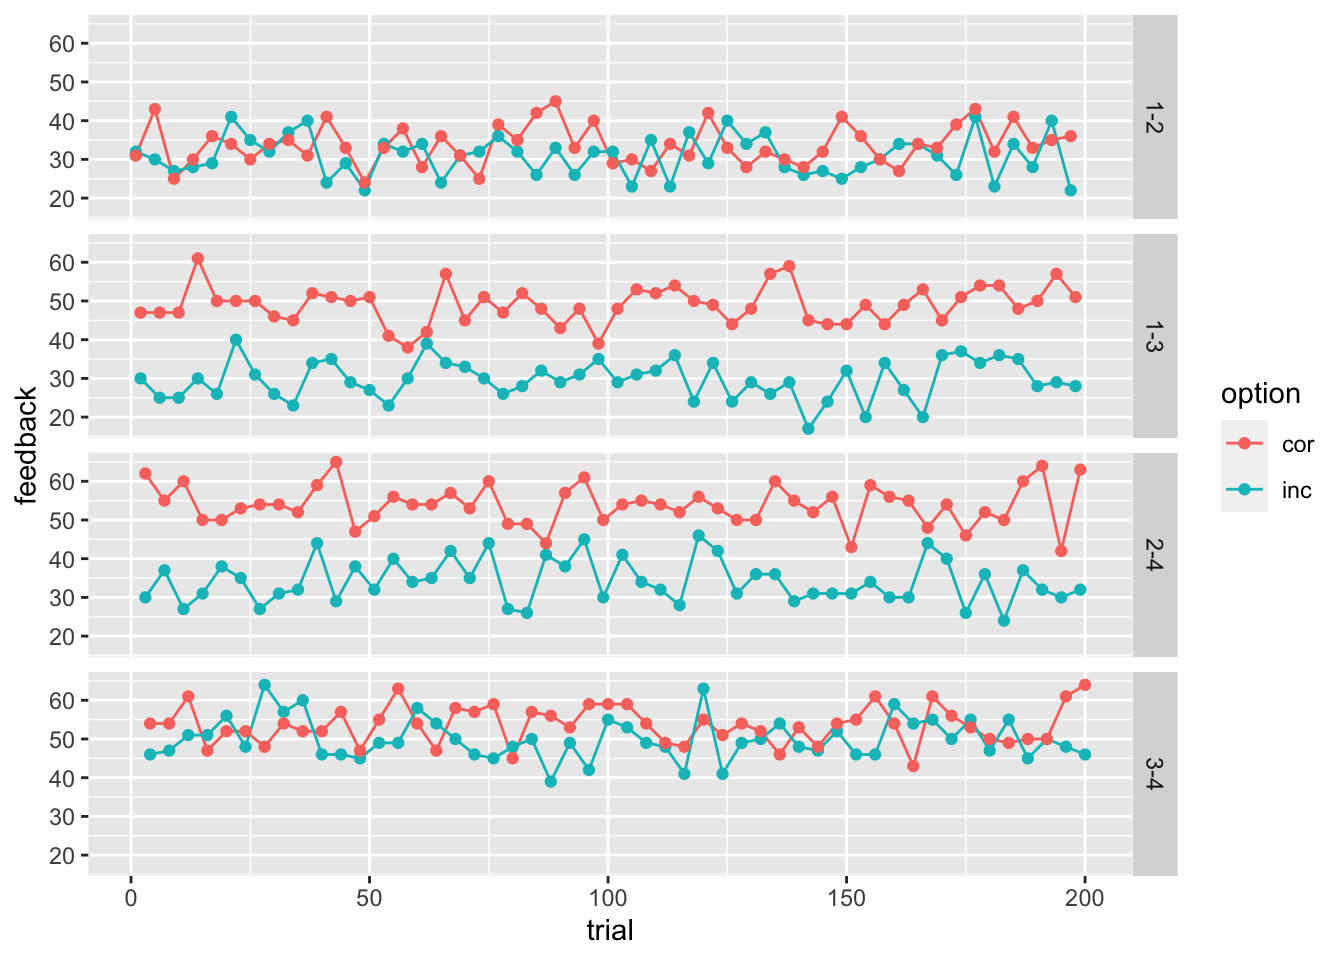
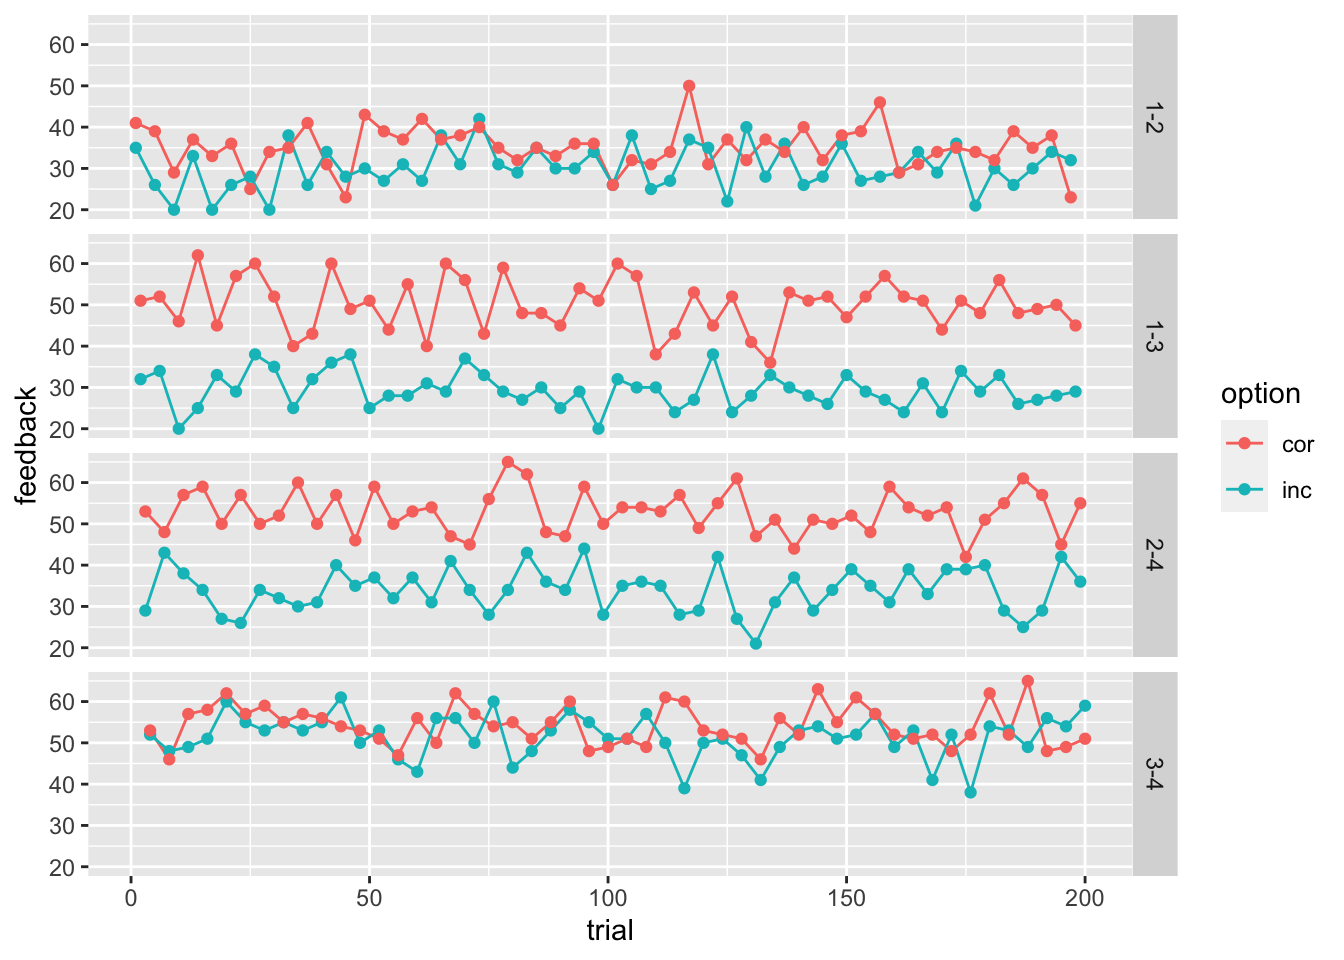
added posterior predictives

Changed region(s): [[0.0312, 0.0312, 0.8438, 0.4688], [0.0312, 0.4688, 0.8438, 0.9062]]

diff --git a/docs/RLDM.html b/docs/RLDM.html
@@ -358,12 +358,12 @@ library(bayesplot)</code></pre>
 ## 4       4   54  5</code></pre>
 <pre class="r"><code>head(stimuli)</code></pre>
 <pre><code>##   trial trial_type inc_option cor_option f_inc f_cor
-## 1     1        1-2          1          2    32    31
-## 2     2        1-3          1          3    30    47
-## 3     3        2-4          2          4    30    62
-## 4     4        3-4          3          4    46    54
-## 5     5        1-2          1          2    30    43
-## 6     6        1-3          1          3    25    47</code></pre>
+## 1     1        1-2          1          2    35    41
+## 2     2        1-3          1          3    32    51
+## 3     3        2-4          2          4    29    53
+## 4     4        3-4          3          4    52    53
+## 5     5        1-2          1          2    26    39
+## 6     6        1-3          1          3    34    52</code></pre>
 <pre class="r"><code>stimuli_for_plotting &lt;- pivot_longer(stimuli, cols=c(f_inc, f_cor), names_to = &quot;option&quot;, names_prefix = &quot;f_&quot;, values_to=&quot;feedback&quot;)
 
 ggplot(data = stimuli_for_plotting, aes(x = trial, y = feedback, color=option))+
@@ -453,20 +453,20 @@ random_rldm &lt;- function(stimuli, alpha, drift_scaling, threshold, ndt, rel_sp
 <pre class="r"><code>sim_data &lt;- random_rldm(stimuli, alpha = .03, drift_scaling = .1, threshold = 1.2, ndt=.15)
 
 head(sim_data)</code></pre>
-<pre><code>##   trial trial_type inc_option cor_option f_inc f_cor   Q_cor    Q_inc
-## 1     1        1-2          1          2    32    31 20.0000 20.00000
-## 2     2        1-3          1          3    30    47 20.0000 20.36000
-## 3     3        2-4          2          4    30    62 20.0000 20.33000
-## 4     4        3-4          3          4    46    54 21.2600 20.81000
-## 5     5        1-2          1          2    30    43 20.6201 20.64920
-## 6     6        1-3          1          3    25    47 21.5657 20.92972
-##        drift threshold  ndt accuracy    rt
-## 1  0.0000000       1.2 0.15        0 1.184
-## 2 -0.0360000       1.2 0.15        1 0.289
-## 3 -0.0330000       1.2 0.15        1 0.659
-## 4  0.0450000       1.2 0.15        0 1.172
-## 5 -0.0029100       1.2 0.15        1 0.423
-## 6  0.0635976       1.2 0.15        1 0.254</code></pre>
+<pre><code>##   trial trial_type inc_option cor_option f_inc f_cor   Q_cor   Q_inc      drift
+## 1     1        1-2          1          2    35    41 20.0000 20.0000  0.0000000
+## 2     2        1-3          1          3    32    51 20.0000 20.4500 -0.0450000
+## 3     3        2-4          2          4    29    53 20.0000 20.6300 -0.0630000
+## 4     4        3-4          3          4    52    53 20.9900 20.9300  0.0060000
+## 5     5        1-2          1          2    26    39 20.8811 20.7965  0.0084600
+## 6     6        1-3          1          3    34    52 21.8621 20.9526  0.0909495
+##   threshold  ndt accuracy    rt
+## 1       1.2 0.15        0 0.458
+## 2       1.2 0.15        1 0.934
+## 3       1.2 0.15        0 1.005
+## 4       1.2 0.15        0 0.262
+## 5       1.2 0.15        1 0.548
+## 6       1.2 0.15        1 1.132</code></pre>
 <p>First, we can have a look at the average performance across trial-types. Note that, since the threshold was not modulated, the same performance is predicted across magnitudes:</p>
 <pre class="r"><code>sim_data$trial_bin &lt;- cut(sim_data$trial,
                           breaks = seq(min(sim_data$trial), max(sim_data$trial), length.out=7),
@@ -486,11 +486,7 @@ ggplot(data = sim_data, aes(x = trial_type, y = rt,  color=trial_type))+
   geom_point()</code></pre>
 <p><img src="RLDM_files/figure-html/unnamed-chunk-7-1.png" width="672" /></p>
 <p>Therefore, we expect the accuracy and RTs to also improve with learning:</p>
-<pre class="r"><code>sim_data$trial_bin &lt;- cut(sim_data$trial,
-                          breaks = seq(min(sim_data$trial), max(sim_data$trial), length.out=7),
-                          include.lowest = TRUE)
-
-ggplot(data = sim_data, aes(x = trial_bin, y = rt))+
+<pre class="r"><code>ggplot(data = sim_data, aes(x = trial_bin, y = rt))+
   geom_violin(draw_quantiles = c(0.1, 0.5, 0.9))</code></pre>
 <p><img src="RLDM_files/figure-html/unnamed-chunk-8-1.png" width="672" /></p>
 <pre class="r"><code>ggplot(data = sim_data, aes(x = trial_bin, y = accuracy))+
@@ -541,14 +537,14 @@ sim_data[sim_data$accuracy == 1, &quot;response&quot;] = &quot;upper&quot;
 starting_values = c(.5, .1, 2, .2) # set some starting values
 
 print(log_likelihood_rldm(starting_values, data=sim_data)) # check that starting values are plausible</code></pre>
-<pre><code>## [1] -431.8875</code></pre>
+<pre><code>## [1] -613.9113</code></pre>
 <pre class="r"><code>fit1 &lt;- nmkb(par = starting_values,
              fn = function (x) log_likelihood_rldm(x, data=sim_data),
              lower = c(0, -10, 0, 0),
              upper = c(1, 10, 10, 5),
              control = list(maximize = TRUE))
 print(fit1$par) # print estimated parameters</code></pre>
-<pre><code>## [1] 0.06628673 0.08896020 1.30031476 0.15414672</code></pre>
+<pre><code>## [1] 0.06044017 0.07735565 1.27009240 0.14149854</code></pre>
 </div>
 <div id="parameter-recovery-with-stan" class="section level2">
 <h2>Parameter Recovery with stan</h2>
@@ -579,6 +575,27 @@ sim_data_for_stan = list(
   iter = 3000,                                       # total number of iterations per chain
   cores = 2                                          # number of cores (could use one per chain)
 )</code></pre>
+<pre><code>## Running /Library/Frameworks/R.framework/Resources/bin/R CMD SHLIB foo.c
+## clang -mmacosx-version-min=10.13 -I&quot;/Library/Frameworks/R.framework/Resources/include&quot; -DNDEBUG   -I&quot;/Library/Frameworks/R.framework/Versions/4.0/Resources/library/Rcpp/include/&quot;  -I&quot;/Library/Frameworks/R.framework/Versions/4.0/Resources/library/RcppEigen/include/&quot;  -I&quot;/Library/Frameworks/R.framework/Versions/4.0/Resources/library/RcppEigen/include/unsupported&quot;  -I&quot;/Library/Frameworks/R.framework/Versions/4.0/Resources/library/BH/include&quot; -I&quot;/Library/Frameworks/R.framework/Versions/4.0/Resources/library/StanHeaders/include/src/&quot;  -I&quot;/Library/Frameworks/R.framework/Versions/4.0/Resources/library/StanHeaders/include/&quot;  -I&quot;/Library/Frameworks/R.framework/Versions/4.0/Resources/library/RcppParallel/include/&quot;  -I&quot;/Library/Frameworks/R.framework/Versions/4.0/Resources/library/rstan/include&quot; -DEIGEN_NO_DEBUG  -DBOOST_DISABLE_ASSERTS  -DBOOST_PENDING_INTEGER_LOG2_HPP  -DSTAN_THREADS  -DBOOST_NO_AUTO_PTR  -include &#39;/Library/Frameworks/R.framework/Versions/4.0/Resources/library/StanHeaders/include/stan/math/prim/mat/fun/Eigen.hpp&#39;  -D_REENTRANT -DRCPP_PARALLEL_USE_TBB=1   -I/usr/local/include   -fPIC  -Wall -g -O2  -c foo.c -o foo.o
+## In file included from &lt;built-in&gt;:1:
+## In file included from /Library/Frameworks/R.framework/Versions/4.0/Resources/library/StanHeaders/include/stan/math/prim/mat/fun/Eigen.hpp:13:
+## In file included from /Library/Frameworks/R.framework/Versions/4.0/Resources/library/RcppEigen/include/Eigen/Dense:1:
+## In file included from /Library/Frameworks/R.framework/Versions/4.0/Resources/library/RcppEigen/include/Eigen/Core:88:
+## /Library/Frameworks/R.framework/Versions/4.0/Resources/library/RcppEigen/include/Eigen/src/Core/util/Macros.h:613:1: error: unknown type name &#39;namespace&#39;
+## namespace Eigen {
+## ^
+## /Library/Frameworks/R.framework/Versions/4.0/Resources/library/RcppEigen/include/Eigen/src/Core/util/Macros.h:613:16: error: expected &#39;;&#39; after top level declarator
+## namespace Eigen {
+##                ^
+##                ;
+## In file included from &lt;built-in&gt;:1:
+## In file included from /Library/Frameworks/R.framework/Versions/4.0/Resources/library/StanHeaders/include/stan/math/prim/mat/fun/Eigen.hpp:13:
+## In file included from /Library/Frameworks/R.framework/Versions/4.0/Resources/library/RcppEigen/include/Eigen/Dense:1:
+## /Library/Frameworks/R.framework/Versions/4.0/Resources/library/RcppEigen/include/Eigen/Core:96:10: fatal error: &#39;complex&#39; file not found
+## #include &lt;complex&gt;
+##          ^~~~~~~~~
+## 3 errors generated.
+## make: *** [foo.o] Error 1</code></pre>
 <p>Compare the generating parameters with the recovered ones and check for convergence looking at the Rhat measures:</p>
 <pre class="r"><code>print(fit1, pars = c(&quot;transf_alpha&quot;, &quot;transf_drift_scaling&quot;, &quot;transf_threshold&quot;, &quot;transf_ndt&quot;))</code></pre>
 <pre><code>## Inference for Stan model: RLDM.
@@ -586,12 +603,12 @@ sim_data_for_stan = list(
 ## post-warmup draws per chain=2000, total post-warmup draws=4000.
 ## 
 ##                      mean se_mean   sd 2.5%  25%  50%  75% 97.5% n_eff Rhat
-## transf_alpha         0.20       0 0.14 0.02 0.10 0.17 0.27  0.54  1267 1.00
-## transf_drift_scaling 0.08       0 0.02 0.06 0.07 0.08 0.09  0.13   258 1.01
-## transf_threshold     1.31       0 0.05 1.22 1.27 1.30 1.34  1.40  1676 1.00
-## transf_ndt           0.15       0 0.01 0.13 0.15 0.15 0.16  0.17  1912 1.00
+## transf_alpha         0.15       0 0.11 0.03 0.07 0.11 0.18  0.47  1738    1
+## transf_drift_scaling 0.07       0 0.01 0.05 0.06 0.07 0.08  0.10  2170    1
+## transf_threshold     1.27       0 0.05 1.19 1.24 1.27 1.30  1.37  1907    1
+## transf_ndt           0.14       0 0.01 0.12 0.13 0.14 0.15  0.15  1992    1
 ## 
-## Samples were drawn using NUTS(diag_e) at Thu Sep  9 12:33:09 2021.
+## Samples were drawn using NUTS(diag_e) at Fri Sep 10 13:23:19 2021.
 ## For each parameter, n_eff is a crude measure of effective sample size,
 ## and Rhat is the potential scale reduction factor on split chains (at 
 ## convergence, Rhat=1).</code></pre>
@@ -601,20 +618,20 @@ sim_data_for_stan = list(
 <p><img src="RLDM_files/figure-html/unnamed-chunk-14-1.png" width="672" /></p>
 <pre class="r"><code>sampler_params &lt;- get_sampler_params(fit1, inc_warmup = TRUE)
 summary(do.call(rbind, sampler_params), digits = 2)</code></pre>
-<pre><code>##  accept_stat__    stepsize__      treedepth__   n_leapfrog__    divergent__    
-##  Min.   :0.00   Min.   :0.0045   Min.   :0.0   Min.   :  1.0   Min.   :0.0000  
-##  1st Qu.:0.84   1st Qu.:0.4622   1st Qu.:2.0   1st Qu.:  7.0   1st Qu.:0.0000  
-##  Median :0.95   Median :0.4834   Median :3.0   Median :  7.0   Median :0.0000  
-##  Mean   :0.84   Mean   :0.5071   Mean   :2.7   Mean   :  7.9   Mean   :0.0053  
-##  3rd Qu.:0.99   3rd Qu.:0.4834   3rd Qu.:3.0   3rd Qu.:  7.0   3rd Qu.:0.0000  
-##  Max.   :1.00   Max.   :9.9048   Max.   :6.0   Max.   :127.0   Max.   :1.0000  
-##     energy__  
-##  Min.   : 79  
-##  1st Qu.: 81  
-##  Median : 82  
-##  Mean   : 83  
-##  3rd Qu.: 84  
-##  Max.   :754</code></pre>
+<pre><code>##  accept_stat__    stepsize__       treedepth__   n_leapfrog__  
+##  Min.   :0.00   Min.   :6.1e-05   Min.   :0.0   Min.   :  1.0  
+##  1st Qu.:0.88   1st Qu.:4.0e-01   1st Qu.:2.0   1st Qu.:  7.0  
+##  Median :0.96   Median :4.2e-01   Median :3.0   Median :  7.0  
+##  Mean   :0.88   Mean   :4.6e-01   Mean   :2.8   Mean   :  8.4  
+##  3rd Qu.:0.99   3rd Qu.:4.2e-01   3rd Qu.:3.0   3rd Qu.:  7.0  
+##  Max.   :1.00   Max.   :1.4e+01   Max.   :8.0   Max.   :452.0  
+##   divergent__        energy__    
+##  Min.   :0.0000   Min.   :   84  
+##  1st Qu.:0.0000   1st Qu.:   86  
+##  Median :0.0000   Median :   87  
+##  Mean   :0.0073   Mean   :  453  
+##  3rd Qu.:0.0000   3rd Qu.:   89  
+##  Max.   :1.0000   Max.   :44536</code></pre>
 <p>More plotting:</p>
 <pre class="r"><code>posterior &lt;- as.matrix(fit1)
 
@@ -624,6 +641,70 @@ mcmc_areas(posterior,
            pars = c(&quot;transf_alpha&quot;, &quot;transf_drift_scaling&quot;, &quot;transf_threshold&quot;, &quot;transf_ndt&quot;),
            prob = 0.95) + plot_title</code></pre>
 <p><img src="RLDM_files/figure-html/unnamed-chunk-15-1.png" width="672" /></p>
+</div>
+<div id="posterior-predictives" class="section level2">
+<h2>Posterior predictives</h2>
+<p>Until now, we have “stopped” at the model fitting part and haven’t looked at posterior predictives yet. Unfortunately, stan doesn’t have a generating function that we can add to the generating quantities for posterior predictives. Therefore we sort of have to do it ourselves.</p>
+<p>This gives us the opportunity of understanding how posterior predictives are calculated and what should we use.</p>
+<p>First of all, we can extract the trial-by-trial parameter estimates as data frames:</p>
+<pre class="r"><code># Extract single-trial parameters
+drift_t = as.data.frame(fit1, pars=&quot;drift_t&quot;)
+threshold_t = as.data.frame(fit1, pars=&quot;threshold_t&quot;)
+ndt_t = as.data.frame(fit1, pars=&quot;ndt_t&quot;)
+n_samples = dim(drift_t)[1]
+n_samples</code></pre>
+<pre><code>## [1] 4000</code></pre>
+<p>Then, we can use them to calculate predictions of RTs and accuracy and find ways to group them e.g. by condition:</p>
+<pre class="r"><code># add conditions based on choice pairs
+sim_data[(sim_data$inc_option == 1)&amp;(sim_data$cor_option == 2),&quot;condition_label&quot;] &lt;- &quot;difficult&quot;
+sim_data[(sim_data$inc_option == 1)&amp;(sim_data$cor_option == 3),&quot;condition_label&quot;] &lt;- &quot;easy&quot;
+sim_data[(sim_data$inc_option == 2)&amp;(sim_data$cor_option == 4),&quot;condition_label&quot;] &lt;- &quot;easy&quot;
+sim_data[(sim_data$inc_option == 3)&amp;(sim_data$cor_option == 4),&quot;condition_label&quot;] &lt;- &quot;difficult&quot;
+
+sim_data[(sim_data$inc_option == 1)&amp;(sim_data$cor_option == 2),&quot;condition&quot;] &lt;- 1
+sim_data[(sim_data$inc_option == 1)&amp;(sim_data$cor_option == 3),&quot;condition&quot;] &lt;- 2
+sim_data[(sim_data$inc_option == 2)&amp;(sim_data$cor_option == 4),&quot;condition&quot;] &lt;- 2
+sim_data[(sim_data$inc_option == 3)&amp;(sim_data$cor_option == 4),&quot;condition&quot;] &lt;- 1
+
+# calculate PP
+pred_stats &lt;- data.frame()
+
+for (n in seq(1, 100, 1)) { # number of posterior predictives
+  r = sample(seq(1, n_samples), 1) # sample from the joint posterior distr
+  
+  for (c in unique(sim_data$condition)) {
+    pred &lt;- random_dm(drift=as.numeric(slice(drift_t, r))[sim_data$condition == c], # get the r sample, across all trials  
+                      threshold=as.numeric(slice(threshold_t, r))[sim_data$condition == c], 
+                      ndt=as.numeric(slice(ndt_t, r))[sim_data$condition == c])
+    pred_stats &lt;- rbind(pred_stats,
+                        data.frame(mean_accuracy=mean(pred$accuracy),
+                                   mean_rt=mean(pred$rt),
+                                   median_rt=median(pred$rt),
+                                   condition=c))
+  }
+}
+
+pred_stats[pred_stats$condition == 1, &quot;condition_label&quot;] = &quot;difficult&quot;
+pred_stats[pred_stats$condition == 2, &quot;condition_label&quot;] = &quot;easy&quot;</code></pre>
+<p>Now that we have distributions of summary statistics, we can compare them with the ones that we calculate on the data. This plotting style is actually not ideal. Instead of plotting the 95 CI we rather plot HDIs, however, the principle is the same:</p>
+<pre class="r"><code>ggplot(data = pred_stats, aes(x = condition, y = mean_accuracy, color=condition_label))+
+  stat_summary(fun = &quot;mean&quot;, geom=&quot;point&quot;,  size=4) +
+  stat_summary(fun.data = mean_cl_normal, geom = &quot;errorbar&quot;,  size=.5, width=.3) +
+  geom_hline(yintercept = mean(sim_data[sim_data$condition == 1, &quot;accuracy&quot;]), color=&#39;coral2&#39;, linetype=&#39;dotted&#39;, size=1) +
+  geom_hline(yintercept = mean(sim_data[sim_data$condition == 2, &quot;accuracy&quot;]), color=&#39;darkturquoise&#39;, linetype=&#39;dotted&#39;, size=1)</code></pre>
+<p><img src="RLDM_files/figure-html/unnamed-chunk-18-1.png" width="672" /></p>
+<pre class="r"><code>ggplot(data = pred_stats, aes(x = condition, y = mean_rt, color=condition_label))+
+  stat_summary(fun = &quot;mean&quot;, geom=&quot;point&quot;,  size=4) +
+  stat_summary(fun.data = mean_cl_normal, geom = &quot;errorbar&quot;,  size=.5, width=.3) +
+  geom_hline(yintercept = mean(sim_data[sim_data$condition == 1, &quot;rt&quot;]), color=&#39;coral2&#39;, linetype=&#39;dotted&#39;, size=1) +
+  geom_hline(yintercept = mean(sim_data[sim_data$condition == 2, &quot;rt&quot;]), color=&#39;darkturquoise&#39;, linetype=&#39;dotted&#39;, size=1)</code></pre>
+<p><img src="RLDM_files/figure-html/unnamed-chunk-18-2.png" width="672" /></p>
+<pre class="r"><code>ggplot(data = pred_stats, aes(x = condition, y = median_rt, color=condition_label))+
+  stat_summary(fun = &quot;mean&quot;, geom=&quot;point&quot;,  size=4) +
+  stat_summary(fun.data = mean_cl_normal, geom = &quot;errorbar&quot;,  size=.5, width=.3) +
+  geom_hline(yintercept = median(sim_data[sim_data$condition == 1, &quot;rt&quot;]), color=&#39;coral2&#39;, linetype=&#39;dotted&#39;, size=1) +
+  geom_hline(yintercept = median(sim_data[sim_data$condition == 2, &quot;rt&quot;]), color=&#39;darkturquoise&#39;, linetype=&#39;dotted&#39;, size=1)</code></pre>
+<p><img src="RLDM_files/figure-html/unnamed-chunk-18-3.png" width="672" /></p>
 </div>
 
 
